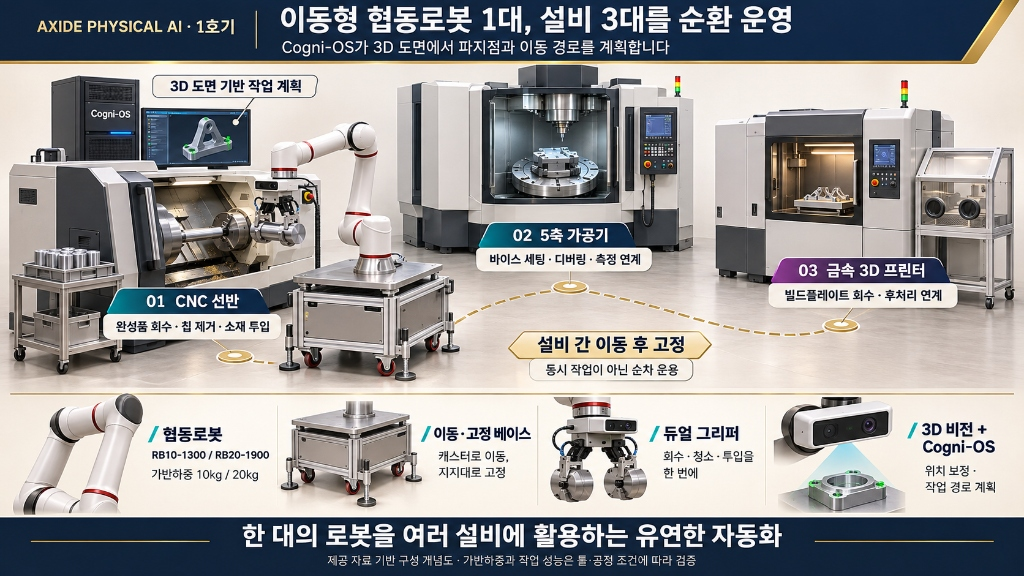
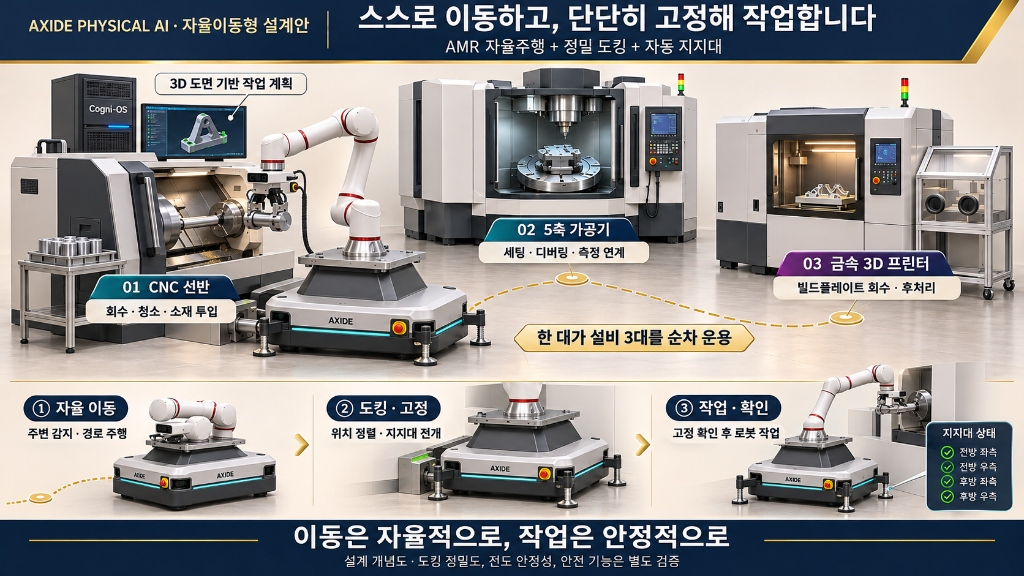
feat(visual): update Physical AI 1호기 with AMR autonomous docking base photo and infographic

diff --git a/about.html b/about.html
@@ -611,9 +611,9 @@
                     <div class="axide-physical-ai-showcase mt-32">
                         <div class="row rg-24">
                             <div class="col-12">
-                                <div class="physical-ai-card physical-ai-lifecycle-card" data-zoom-src="assets/images/doc/physical-ai-data-factory-lifecycle.jpg?v=20261104v90">
+                                <div class="physical-ai-card physical-ai-lifecycle-card" data-zoom-src="assets/images/doc/physical-ai-data-factory-lifecycle.jpg?v=20261105v95">
                                     <div class="physical-ai-thumb has-live-vfx">
-                                        <img src="assets/images/doc/physical-ai-data-factory-lifecycle.jpg?v=20261104v90" alt="AXIDE 피지컬 AI 1호기 실전 로봇팔 (RB10-1300/RB20-1900 + 이동식 포터블 베이스 + 3조 동심 듀얼 그리퍼 + 손목 3D 비전) CNC 선반·5축 가공·금속 3D 프린팅 현장 작업 다큐멘터리" loading="lazy">
+                                        <img src="assets/images/doc/physical-ai-data-factory-lifecycle.jpg?v=20261105v95" alt="AXIDE 피지컬 AI 1호기 실전 로봇팔 (RB10-1300/RB20-1900 + 이동식 포터블 베이스 + 3조 동심 듀얼 그리퍼 + 손목 3D 비전) CNC 선반·5축 가공·금속 3D 프린팅 현장 작업 다큐멘터리" loading="lazy">
                                         <div class="axide-live-vfx" aria-hidden="true">
                                             <div class="vfx-aura vfx-aura-cyan" style="left: 12%; top: 24%; width: 22%; height: 48%;"></div>
                                             <div class="vfx-comet-track" style="left: 20%; top: 52%; width: 60%;">
@@ -624,8 +624,8 @@
                                         <span class="physical-ai-badge">PHYSICAL AI 1호기 실전 배치 · CNC 선반 · 5축 가공 · 금속 3D 프린팅</span>
                                     </div>
                                                                                                             <div class="physical-ai-body" style="padding: 16px 20px 20px;">
-                                        <div class="position-relative" data-zoom-src="assets/images/doc/physical-ai-1-unit-3-machines.jpg?v=20261105v93" style="border-radius: 14px; overflow: hidden; border: 1px solid rgba(56, 189, 248, 0.32); cursor: zoom-in;">
-                                            <img src="assets/images/doc/physical-ai-1-unit-3-machines.jpg?v=20261105v93" alt="AXIDE PHYSICAL AI 1호기 — 이동형 협동로봇 1대, 설비 3대(01 CNC 선반, 02 5축 가공기, 03 금속 3D 프린터)를 순환 운영" style="width: 100%; display: block; height: auto;" loading="lazy">
+                                        <div class="position-relative" data-zoom-src="assets/images/doc/physical-ai-1-unit-3-machines.jpg?v=20261105v95" style="border-radius: 14px; overflow: hidden; border: 1px solid rgba(56, 189, 248, 0.32); cursor: zoom-in;">
+                                            <img src="assets/images/doc/physical-ai-1-unit-3-machines.jpg?v=20261105v95" alt="AXIDE PHYSICAL AI 1호기 — 이동형 협동로봇 1대, 설비 3대(01 CNC 선반, 02 5축 가공기, 03 금속 3D 프린터)를 순환 운영" style="width: 100%; display: block; height: auto;" loading="lazy">
                                         </div>
                                     </div>
                                 </div>

diff --git a/index-v2.html b/index-v2.html
@@ -1206,14 +1206,14 @@
                     <div class="axide-physical-ai-showcase mt-48">
                         <div class="row rg-24">
                             <div class="col-12">
-                                <div class="physical-ai-card physical-ai-lifecycle-card" data-zoom-src="assets/images/doc/physical-ai-data-factory-lifecycle.jpg?v=20261104v90">
+                                <div class="physical-ai-card physical-ai-lifecycle-card" data-zoom-src="assets/images/doc/physical-ai-data-factory-lifecycle.jpg?v=20261105v95">
                                     <div class="physical-ai-thumb">
-                                        <img src="assets/images/doc/physical-ai-data-factory-lifecycle.jpg?v=20261104v90" alt="AXIDE 피지컬 AI 1호기 실전 로봇팔 (RB10-1300/RB20-1900 + 이동식 포터블 베이스 + 3조 동심 듀얼 그리퍼 + 손목 3D 비전) CNC 선반·5축 가공·금속 3D 프린팅 현장 작업 다큐멘터리" loading="lazy">
+                                        <img src="assets/images/doc/physical-ai-data-factory-lifecycle.jpg?v=20261105v95" alt="AXIDE 피지컬 AI 1호기 실전 로봇팔 (RB10-1300/RB20-1900 + 이동식 포터블 베이스 + 3조 동심 듀얼 그리퍼 + 손목 3D 비전) CNC 선반·5축 가공·금속 3D 프린팅 현장 작업 다큐멘터리" loading="lazy">
                                         <span class="physical-ai-badge">PHYSICAL AI 1호기 실전 배치 · CNC 선반 · 5축 가공 · 금속 3D 프린팅</span>
                                     </div>
                                                                                                             <div class="physical-ai-body" style="padding: 16px 20px 20px;">
-                                        <div class="position-relative" data-zoom-src="assets/images/doc/physical-ai-1-unit-3-machines.jpg?v=20261105v93" style="border-radius: 14px; overflow: hidden; border: 1px solid rgba(56, 189, 248, 0.32); cursor: zoom-in;">
-                                            <img src="assets/images/doc/physical-ai-1-unit-3-machines.jpg?v=20261105v93" alt="AXIDE PHYSICAL AI 1호기 — 이동형 협동로봇 1대, 설비 3대(01 CNC 선반, 02 5축 가공기, 03 금속 3D 프린터)를 순환 운영" style="width: 100%; display: block; height: auto;" loading="lazy">
+                                        <div class="position-relative" data-zoom-src="assets/images/doc/physical-ai-1-unit-3-machines.jpg?v=20261105v95" style="border-radius: 14px; overflow: hidden; border: 1px solid rgba(56, 189, 248, 0.32); cursor: zoom-in;">
+                                            <img src="assets/images/doc/physical-ai-1-unit-3-machines.jpg?v=20261105v95" alt="AXIDE PHYSICAL AI 1호기 — 이동형 협동로봇 1대, 설비 3대(01 CNC 선반, 02 5축 가공기, 03 금속 3D 프린터)를 순환 운영" style="width: 100%; display: block; height: auto;" loading="lazy">
                                         </div>
                                     </div>
                                 </div>

diff --git a/index.html b/index.html
@@ -1293,14 +1293,14 @@
                     <div class="axide-physical-ai-showcase mt-48">
                         <div class="row rg-24">
                             <div class="col-12">
-                                <div class="physical-ai-card physical-ai-lifecycle-card" data-zoom-src="assets/images/doc/physical-ai-data-factory-lifecycle.jpg?v=20261104v90">
+                                <div class="physical-ai-card physical-ai-lifecycle-card" data-zoom-src="assets/images/doc/physical-ai-data-factory-lifecycle.jpg?v=20261105v95">
                                     <div class="physical-ai-thumb">
-                                        <img src="assets/images/doc/physical-ai-data-factory-lifecycle.jpg?v=20261104v90" alt="AXIDE 피지컬 AI 1호기 실전 로봇팔 (RB10-1300/RB20-1900 + 이동식 포터블 베이스 + 3조 동심 듀얼 그리퍼 + 손목 3D 비전) CNC 선반·5축 가공·금속 3D 프린팅 현장 작업 다큐멘터리" loading="lazy">
+                                        <img src="assets/images/doc/physical-ai-data-factory-lifecycle.jpg?v=20261105v95" alt="AXIDE 피지컬 AI 1호기 실전 로봇팔 (RB10-1300/RB20-1900 + 이동식 포터블 베이스 + 3조 동심 듀얼 그리퍼 + 손목 3D 비전) CNC 선반·5축 가공·금속 3D 프린팅 현장 작업 다큐멘터리" loading="lazy">
                                         <span class="physical-ai-badge">PHYSICAL AI 1호기 실전 배치 · CNC 선반 · 5축 가공 · 금속 3D 프린팅</span>
                                     </div>
                                                                                                             <div class="physical-ai-body" style="padding: 16px 20px 20px;">
-                                        <div class="position-relative" data-zoom-src="assets/images/doc/physical-ai-1-unit-3-machines.jpg?v=20261105v93" style="border-radius: 14px; overflow: hidden; border: 1px solid rgba(56, 189, 248, 0.32); cursor: zoom-in;">
-                                            <img src="assets/images/doc/physical-ai-1-unit-3-machines.jpg?v=20261105v93" alt="AXIDE PHYSICAL AI 1호기 — 이동형 협동로봇 1대, 설비 3대(01 CNC 선반, 02 5축 가공기, 03 금속 3D 프린터)를 순환 운영" style="width: 100%; display: block; height: auto;" loading="lazy">
+                                        <div class="position-relative" data-zoom-src="assets/images/doc/physical-ai-1-unit-3-machines.jpg?v=20261105v95" style="border-radius: 14px; overflow: hidden; border: 1px solid rgba(56, 189, 248, 0.32); cursor: zoom-in;">
+                                            <img src="assets/images/doc/physical-ai-1-unit-3-machines.jpg?v=20261105v95" alt="AXIDE PHYSICAL AI 1호기 — 이동형 협동로봇 1대, 설비 3대(01 CNC 선반, 02 5축 가공기, 03 금속 3D 프린터)를 순환 운영" style="width: 100%; display: block; height: auto;" loading="lazy">
                                         </div>
                                     </div>
                                 </div>

diff --git a/service.html b/service.html
@@ -624,14 +624,14 @@
                     <div class="axide-physical-ai-showcase mt-32">
                         <div class="row rg-24">
                             <div class="col-12">
-                                <div class="physical-ai-card physical-ai-lifecycle-card" data-zoom-src="assets/images/doc/physical-ai-data-factory-lifecycle.jpg?v=20261104v90">
+                                <div class="physical-ai-card physical-ai-lifecycle-card" data-zoom-src="assets/images/doc/physical-ai-data-factory-lifecycle.jpg?v=20261105v95">
                                     <div class="physical-ai-thumb">
-                                        <img src="assets/images/doc/physical-ai-data-factory-lifecycle.jpg?v=20261104v90" alt="AXIDE 피지컬 AI 1호기 실전 로봇팔 (RB10-1300/RB20-1900 + 이동식 포터블 베이스 + 3조 동심 듀얼 그리퍼 + 손목 3D 비전) CNC 선반·5축 가공·금속 3D 프린팅 현장 작업 다큐멘터리" loading="lazy">
+                                        <img src="assets/images/doc/physical-ai-data-factory-lifecycle.jpg?v=20261105v95" alt="AXIDE 피지컬 AI 1호기 실전 로봇팔 (RB10-1300/RB20-1900 + 이동식 포터블 베이스 + 3조 동심 듀얼 그리퍼 + 손목 3D 비전) CNC 선반·5축 가공·금속 3D 프린팅 현장 작업 다큐멘터리" loading="lazy">
                                         <span class="physical-ai-badge">PHYSICAL AI 1호기 실전 배치 · CNC 선반 · 5축 가공 · 금속 3D 프린팅</span>
                                     </div>
                                                                                                             <div class="physical-ai-body" style="padding: 16px 20px 20px;">
-                                        <div class="position-relative" data-zoom-src="assets/images/doc/physical-ai-1-unit-3-machines.jpg?v=20261105v93" style="border-radius: 14px; overflow: hidden; border: 1px solid rgba(56, 189, 248, 0.32); cursor: zoom-in;">
-                                            <img src="assets/images/doc/physical-ai-1-unit-3-machines.jpg?v=20261105v93" alt="AXIDE PHYSICAL AI 1호기 — 이동형 협동로봇 1대, 설비 3대(01 CNC 선반, 02 5축 가공기, 03 금속 3D 프린터)를 순환 운영" style="width: 100%; display: block; height: auto;" loading="lazy">
+                                        <div class="position-relative" data-zoom-src="assets/images/doc/physical-ai-1-unit-3-machines.jpg?v=20261105v95" style="border-radius: 14px; overflow: hidden; border: 1px solid rgba(56, 189, 248, 0.32); cursor: zoom-in;">
+                                            <img src="assets/images/doc/physical-ai-1-unit-3-machines.jpg?v=20261105v95" alt="AXIDE PHYSICAL AI 1호기 — 이동형 협동로봇 1대, 설비 3대(01 CNC 선반, 02 5축 가공기, 03 금속 3D 프린터)를 순환 운영" style="width: 100%; display: block; height: auto;" loading="lazy">
                                         </div>
                                     </div>
                                 </div>

diff --git a/work.html b/work.html
@@ -356,14 +356,14 @@
                 <div class="axide-physical-ai-showcase mt-48">
                     <div class="row rg-24">
                         <div class="col-12">
-                            <div class="physical-ai-card physical-ai-lifecycle-card" data-zoom-src="assets/images/doc/physical-ai-data-factory-lifecycle.jpg?v=20261104v90">
+                            <div class="physical-ai-card physical-ai-lifecycle-card" data-zoom-src="assets/images/doc/physical-ai-data-factory-lifecycle.jpg?v=20261105v95">
                                 <div class="physical-ai-thumb">
-                                    <img src="assets/images/doc/physical-ai-data-factory-lifecycle.jpg?v=20261104v90" alt="AXIDE 피지컬 AI 1호기 실전 로봇팔 (RB10-1300/RB20-1900 + 이동식 포터블 베이스 + 3조 동심 듀얼 그리퍼 + 손목 3D 비전) CNC 선반·5축 가공·금속 3D 프린팅 현장 작업 다큐멘터리" loading="lazy">
+                                    <img src="assets/images/doc/physical-ai-data-factory-lifecycle.jpg?v=20261105v95" alt="AXIDE 피지컬 AI 1호기 실전 로봇팔 (RB10-1300/RB20-1900 + 이동식 포터블 베이스 + 3조 동심 듀얼 그리퍼 + 손목 3D 비전) CNC 선반·5축 가공·금속 3D 프린팅 현장 작업 다큐멘터리" loading="lazy">
                                     <span class="physical-ai-badge">PHYSICAL AI 1호기 실전 배치 · CNC 선반 · 5축 가공 · 금속 3D 프린팅</span>
                                 </div>
                                                                                                             <div class="physical-ai-body" style="padding: 16px 20px 20px;">
-                                        <div class="position-relative" data-zoom-src="assets/images/doc/physical-ai-1-unit-3-machines.jpg?v=20261105v93" style="border-radius: 14px; overflow: hidden; border: 1px solid rgba(56, 189, 248, 0.32); cursor: zoom-in;">
-                                            <img src="assets/images/doc/physical-ai-1-unit-3-machines.jpg?v=20261105v93" alt="AXIDE PHYSICAL AI 1호기 — 이동형 협동로봇 1대, 설비 3대(01 CNC 선반, 02 5축 가공기, 03 금속 3D 프린터)를 순환 운영" style="width: 100%; display: block; height: auto;" loading="lazy">
+                                        <div class="position-relative" data-zoom-src="assets/images/doc/physical-ai-1-unit-3-machines.jpg?v=20261105v95" style="border-radius: 14px; overflow: hidden; border: 1px solid rgba(56, 189, 248, 0.32); cursor: zoom-in;">
+                                            <img src="assets/images/doc/physical-ai-1-unit-3-machines.jpg?v=20261105v95" alt="AXIDE PHYSICAL AI 1호기 — 이동형 협동로봇 1대, 설비 3대(01 CNC 선반, 02 5축 가공기, 03 금속 3D 프린터)를 순환 운영" style="width: 100%; display: block; height: auto;" loading="lazy">
                                         </div>
                                     </div>
                                 </div>
